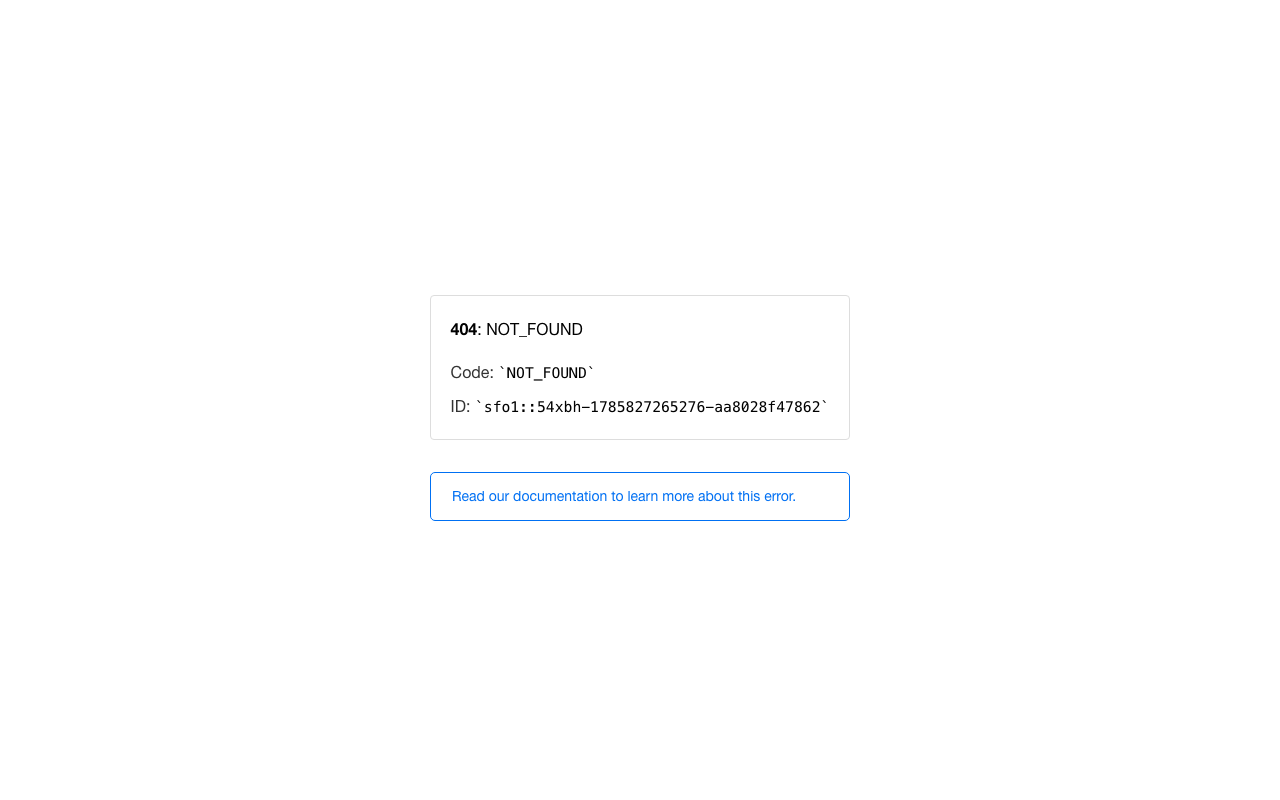
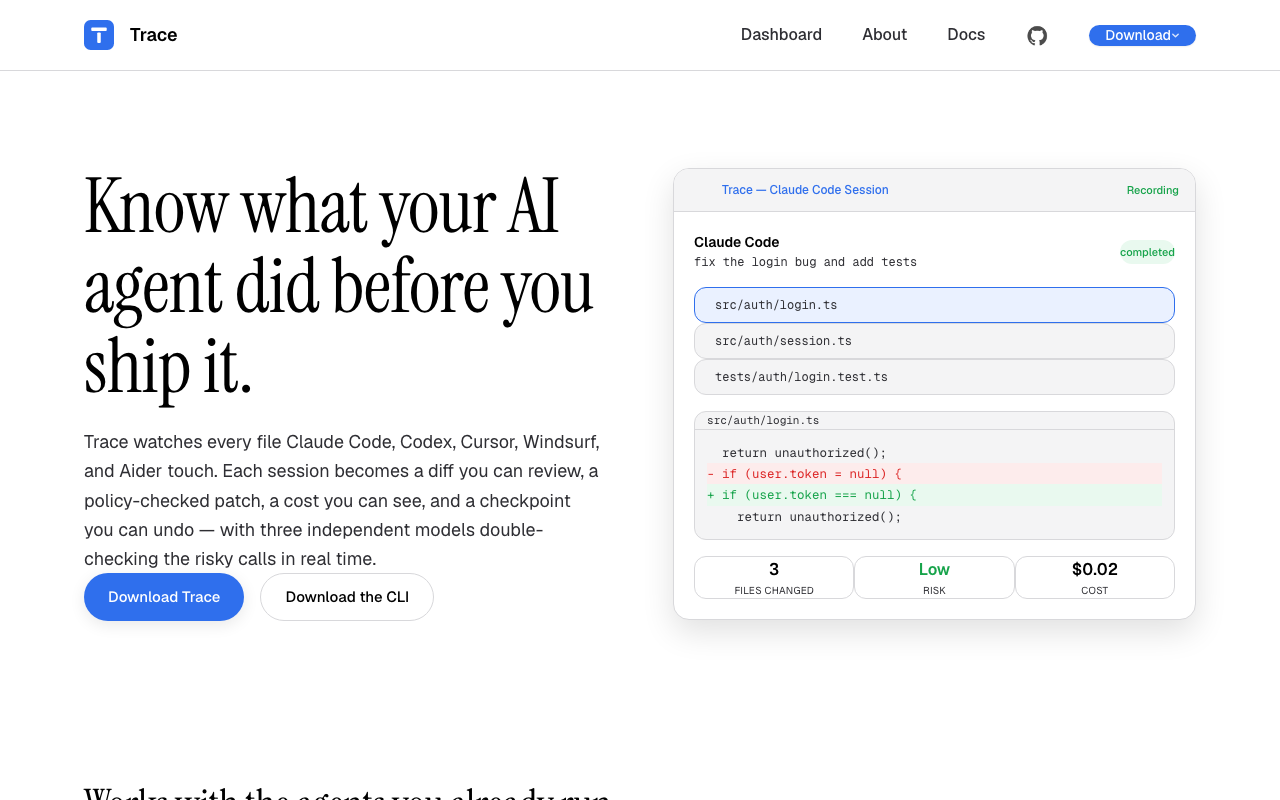
Fix Trace screenshot and URL
Use correct Trace landing URL (landing-one-hazel-88.vercel.app) and
replace placeholder screenshot with actual Trace landing page.

diff --git a/lib/data.ts b/lib/data.ts
@@ -99,7 +99,7 @@ export const projects: Project[] = [
   {
     name: "Trace",
     tagline: "Watches every file your AI agents touch and turns each session into a reviewable diff, a visible cost, and a checkpoint you can undo.",
-    href: "https://landing-one-hazel.vercel.app/",
+    href: "https://landing-one-hazel-88.vercel.app/",
     image: "/projects/trace.png",
   },
   {
